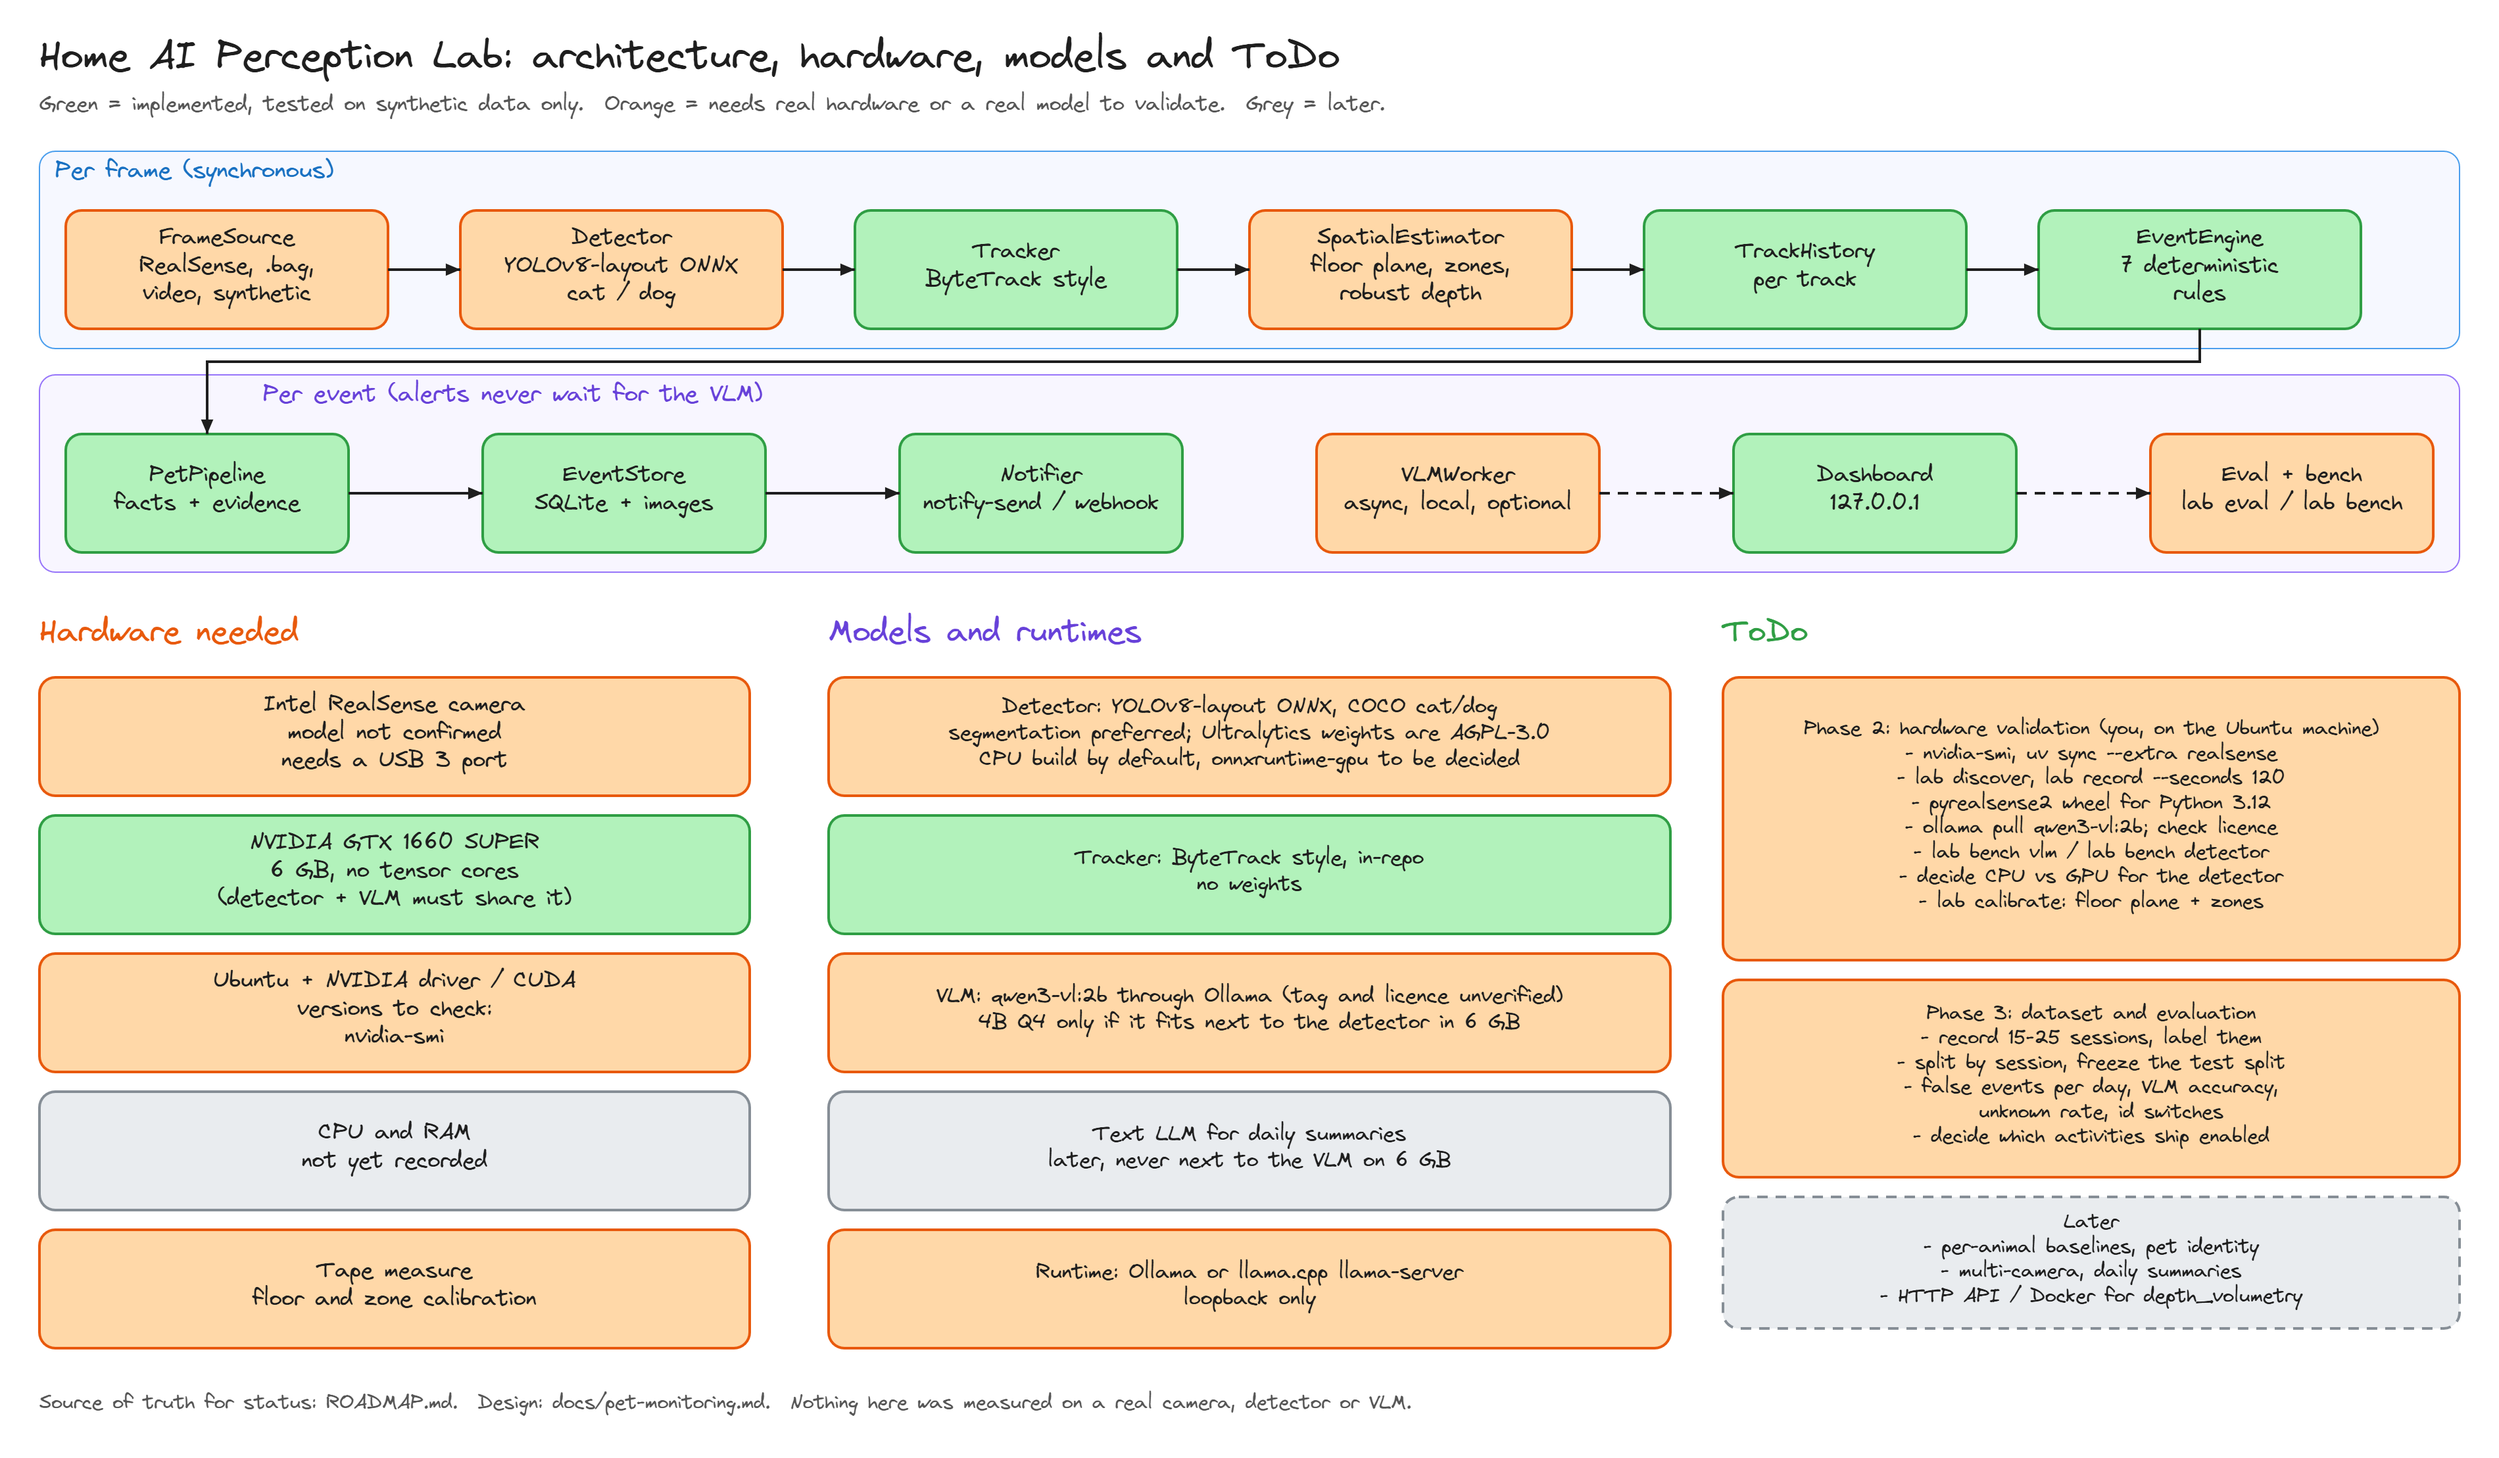
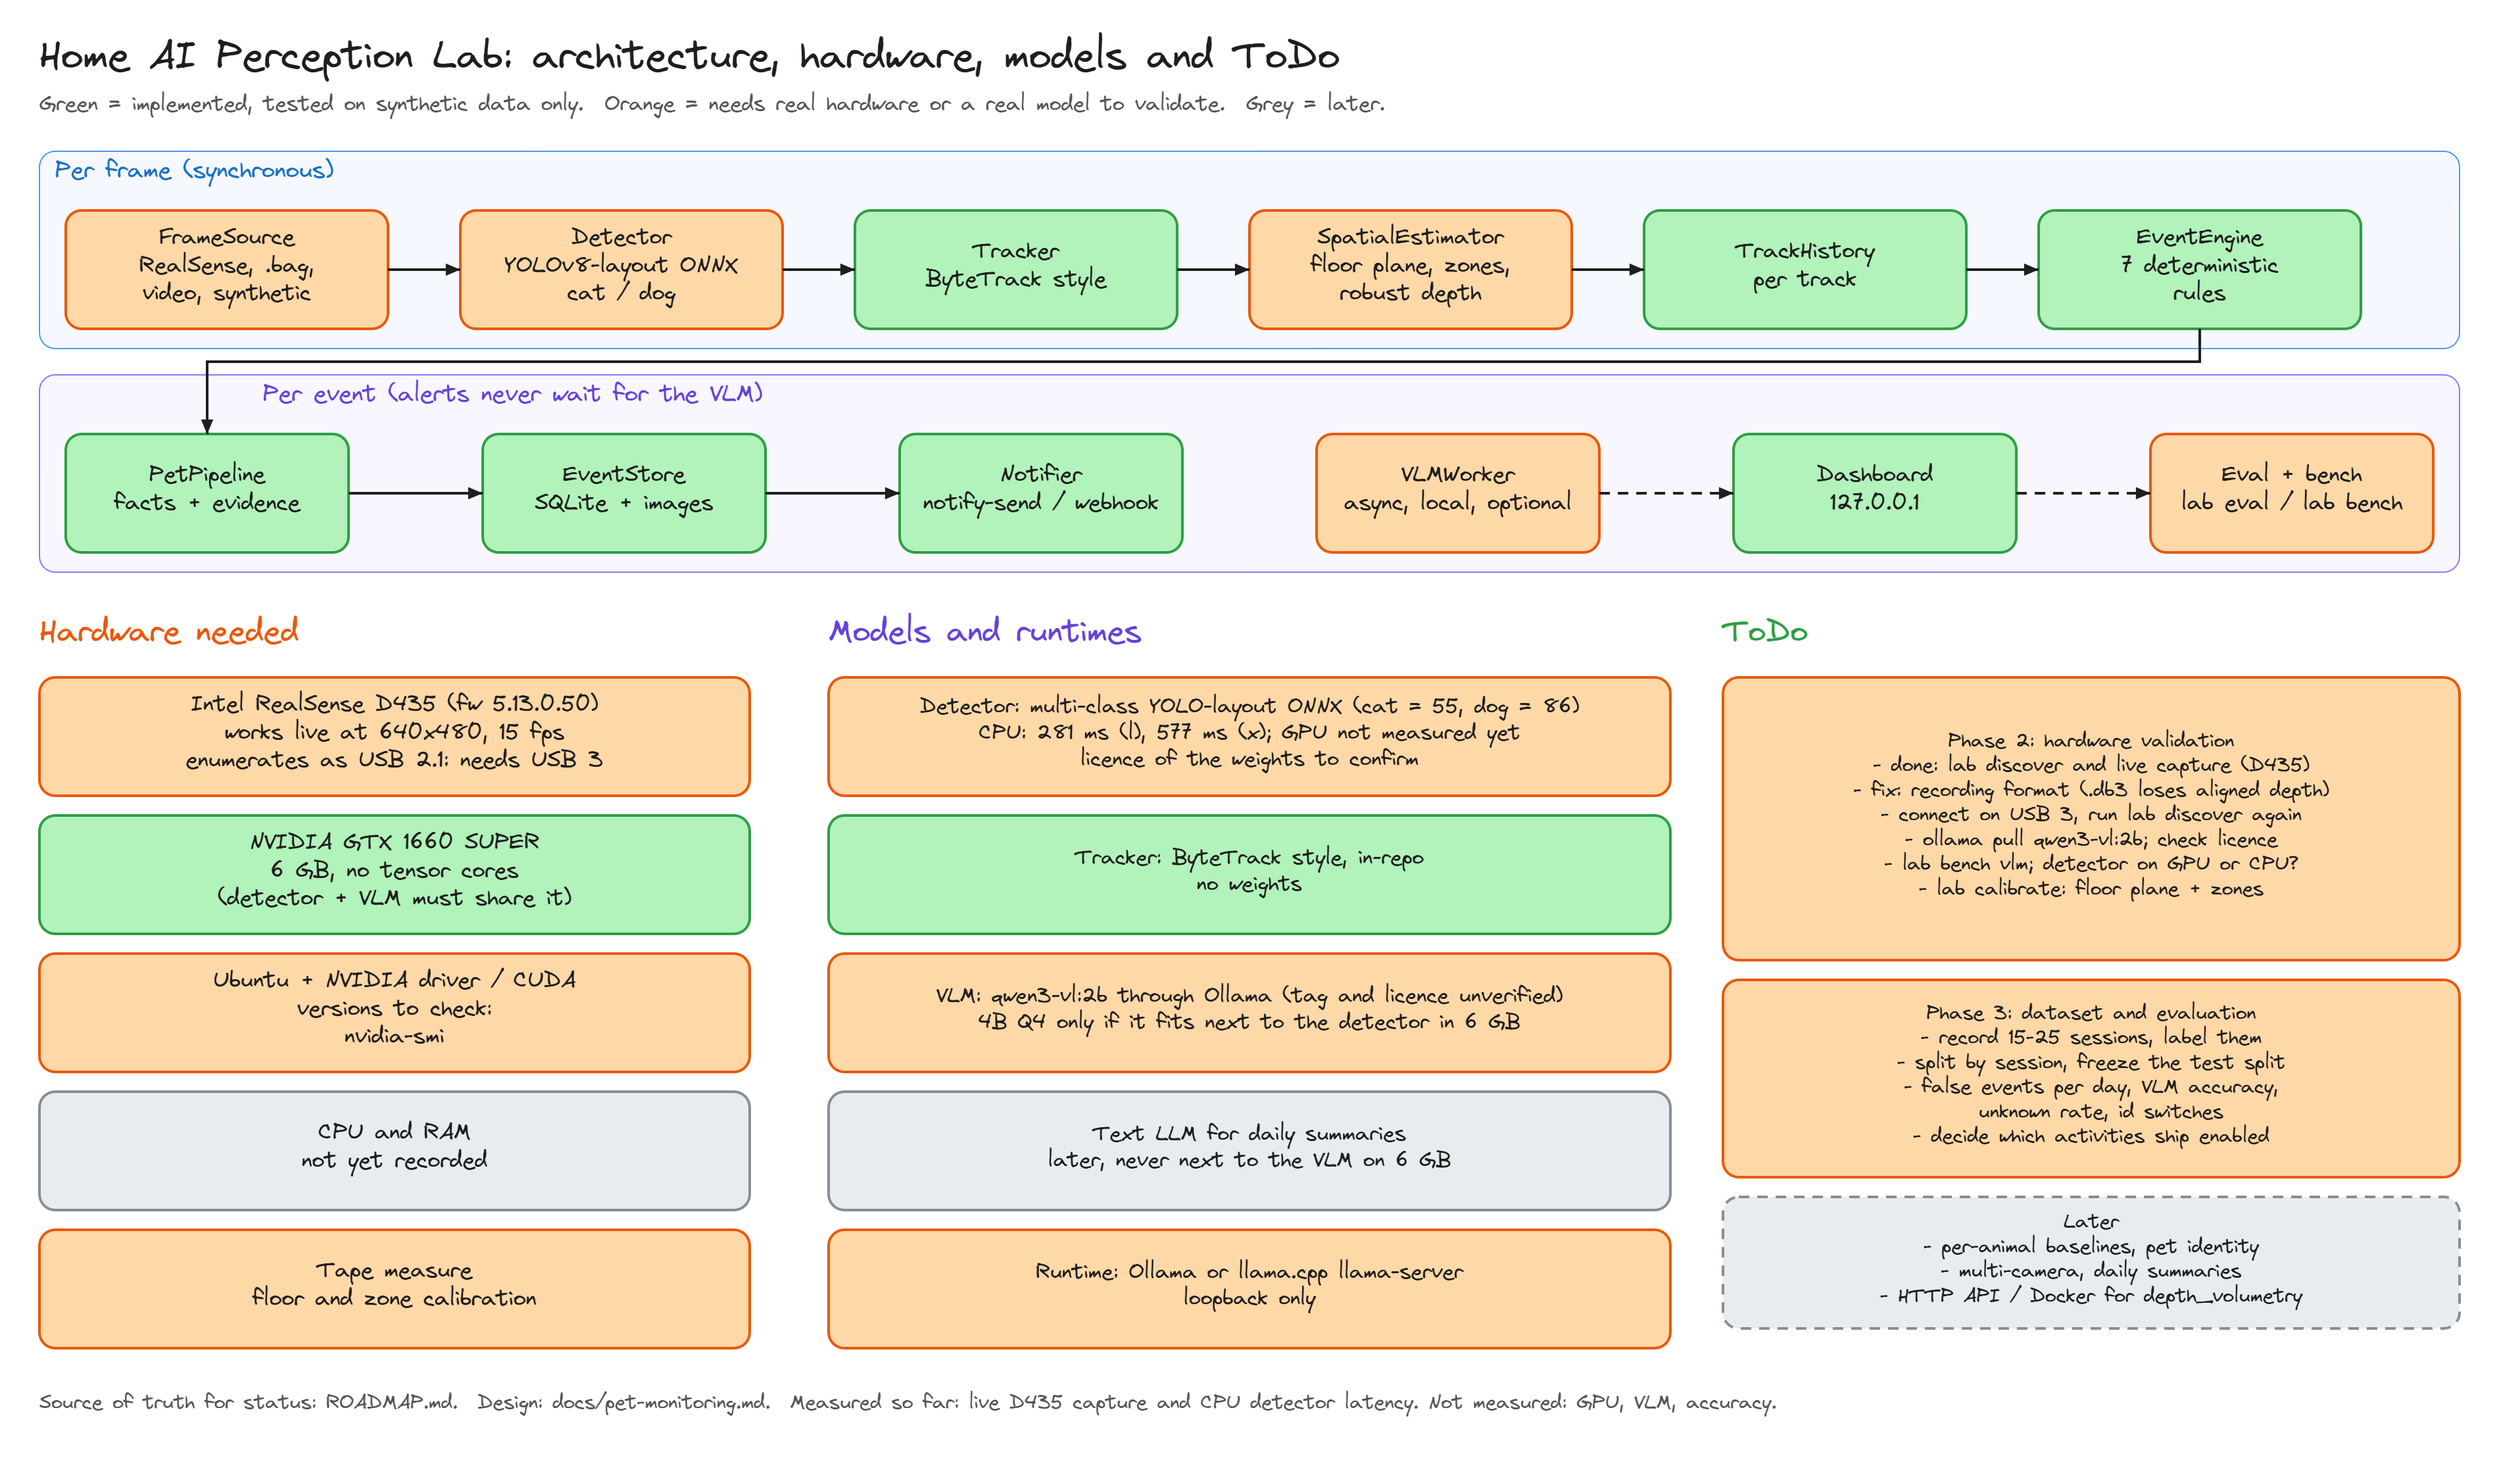
docs: record the first measurements on the development PC
Roadmap and lab notes with what was run on a D435, a GTX 1660 SUPER and a
multi-class YOLO-layout detector, and what was not:
- live depth works at 640x480, 15 fps; the camera enumerates as USB 2.1;
- pyrealsense2 2.59.1 loses the aligned depth when replaying a .db3, while
  2.55.1 with a .bag works;
- detector latency by model size on CPU and on GPU through DirectML (CUDA
  did not initialise here);
- qwen3-vl:2b is the reasoning variant and is unreliable; the -instruct tag
  answers in valid JSON, but a first request with four images takes about
  40 s because Ollama caches repeated prompts;
- the detector's class ids are 55 (cat) and 86 (dog), not the COCO defaults.

Update the overview diagram with the same facts. None of this is an
accuracy measurement.

diff --git a/ROADMAP.md b/ROADMAP.md
@@ -26,9 +26,58 @@ real camera, detector or VLM unless it says so.
 
 Run on the target machine and keep the outputs ([`docs/pet-monitoring.md`](docs/pet-monitoring.md#first-steps-on-the-target-machine)):
 
-- [ ] `nvidia-smi`, `lab discover`, `lab record`; confirm the `pyrealsense2` wheel for the Python version.
-- [ ] Confirm the VLM tag (`qwen3-vl:2b`) and its licence on the official model card.
-- [ ] `lab bench detector` and `lab bench vlm`; decide CPU vs GPU (`onnxruntime-gpu`) on a 6 GB card.
+- [x] `lab discover`, live capture and `lab record` on the Windows development PC
+      (2026-11-09): RealSense D435, firmware 5.13.0.50, serial recorded in the sidecar, GTX 1660
+      SUPER (6 GB), `pyrealsense2` 2.59.1 on Python 3.12. Live depth aligned to colour works at
+      640x480, 15 fps (about 70 % valid pixels at about 1.1 m median in one indoor scene).
+      The camera enumerates as USB 2.1, which limits profiles (for example 1280x720 depth is
+      6 fps); a USB 3 port and cable are still to be confirmed.
+- [ ] **Recording format.** With `pyrealsense2` 2.59.1, recordings must be `.db3` (the lab's
+      default `.bag` name is rejected), and replaying a `.db3` returns corrupt depth-to-colour
+      extrinsics, so the aligned depth is all zeros although the file holds valid depth. With
+      `pyrealsense2` 2.55.1 on Python 3.11 a `.bag` records and replays correctly
+      (about 71 % valid aligned depth). Decide: pin `pyrealsense2` below 2.56 and Python 3.11
+      for the `realsense` extra, or make the replay not depend on the file's extrinsics.
+- [ ] **VLM (`qwen3-vl:2b` through Ollama, 2026-11-09, same PC).** The tag exists and Ollama
+      lists Apache licence (confirm on the official model card). This tag is the *thinking*
+      variant: it spends tokens on reasoning before the JSON answer, and `think: false` did
+      not turn that off. Ollama's default context is 4096 tokens, which three images already
+      fill (3348 prompt tokens), so the answer is cut (`done_reason=length`, empty content);
+      six images need 6485 tokens. With `num_ctx = 8192`, one image answered in 3-15 s with
+      valid JSON, three images 35 s (valid once, 4842 tokens and invalid on the repeat) and six
+      images were cut at 58 s. Whole-GPU memory with the model loaded at 8192 context: about
+      4.4 GB, of which 0.7 GB belongs to other programs.
+- [ ] **VLM `qwen3-vl:2b-instruct` (1.9 GB, no thinking; tag listed on ollama.com 2026-11-09).**
+      `num_ctx = 8192`, model already loaded, same PC. Answers were valid against the schema
+      in every request (15 of 15 on frames without a cat; 3 of 3 on a live cat), with 195-252
+      output tokens and no reasoning tokens. **Latency depends on Ollama's prompt cache.** An
+      identical request repeated three times took 42.5 s, then 2.9 s and 2.9 s (prompt
+      evaluation 39.4 s, then 0.0 s); an earlier run that repeated identical requests showed
+      1.8-3.6 s medians and was inflated by that cache. Treat a new event as about 40-55 s for
+      4-5 images (about 1100 prompt tokens per image, about 110 prompt tokens/s here, whatever
+      the crop size). Whole-GPU memory with the model loaded: about 4.3 GB (0.7 GB of it
+      other programs).
+- [ ] **Live cat check (detector `l` + VLM instruct, 2026-11-09, live D435).** A black cat on a
+      cat tree: detected in 48 of 48 analysed frames in one run (score 0.54-0.90, valid depth
+      in all, median 1.03 m), 31 of 48 in a second run and 3 of 48 in a third (the animal may
+      have moved; not investigated). The VLM answered `resting_or_sleeping` in three runs with
+      certainty high, high and medium, while listing its own uncertainties; do not use the
+      model's certainty as confidence. One image read by eye matched the description (a cat
+      sitting on the lower platform). This is not an accuracy measurement.
+- [x] `vlm.num_ctx` (default 8192) is now in `VLMConfig`, sent to Ollama and covered by tests.
+      Through `lab bench vlm` with the instruct tag and real frames, first (uncached) request:
+      1 image 16.0 s, 2 images 21.6 s, 4 images 42.1 s; repeats 2.0-3.2 s from the cache; 6 of
+      6 answers valid; whole-GPU peak 4.25 GB. Still open: change the default model tag from
+      `qwen3-vl:2b` to `qwen3-vl:2b-instruct`, compare 2 against 4 images and the 4B model on
+      labelled cat events, and decide how many images per event given about 10 s per image.
+- [ ] **Detector (multi-class YOLO-layout exports in five sizes, 640 input, synthetic frames, same PC).** CPU
+      (`onnxruntime` 1.31): n 37 ms, s 82 ms, m 235 ms, l 281 ms, x 577 ms (p50). GPU through
+      DirectML with the VLM already loaded: n 9 ms, s 14 ms, m 27 ms, l 32-34 ms, x 59-63 ms
+      (p50), adding 100, 168, 289, 324 and 664 MiB. CUDA through `onnxruntime-gpu` did not
+      initialise here (1.31 needs CUDA 13; 1.22 with CUDA 12 libraries failed in cuDNN on the
+      first convolution and fell back to CPU), so the CUDA path on Ubuntu is untested.
+      One live check detected a black cat at score 0.39 on a cat tree; this is not an accuracy
+      measurement. Class ids are 55 (cat) and 86 (dog), not the COCO defaults.
 - [ ] Calibrate the floor plane and zones with a tape measure.
 
 ## Phase 3: dataset and evaluation

diff --git a/docs/pet-monitoring.md b/docs/pet-monitoring.md
@@ -148,6 +148,14 @@ schema, the answers, errors, peak GPU memory (whole GPU, via `nvidia-smi`) and O
 `size_vram`. Repeat with the 4B quantised model (`--model <tag>`). Decide from these
 numbers, not from model file sizes:
 
+- if answers come back empty or cut, check `vlm.num_ctx` (default 8192) before blaming the
+  model: the prompt costs about 1100 tokens per image and Ollama's own default of 4096 tokens
+  is exhausted by three images. `num_ctx` applies to Ollama only; set the context of
+  `llama-server` when you start it;
+- prefer a non-reasoning tag such as `qwen3-vl:2b-instruct` over the plain `2b` tag, which is
+  the reasoning variant and spends tokens thinking before the JSON;
+- Ollama caches the prompt prefix, so repeating one request makes it look fast; the first
+  request with new images is the one that matters for latency;
 - if multi-image requests fail or are ignored, set `vlm.montage = true`;
 - keep the model whose peak memory leaves room for the detector (6 GB card) and whose
   latency is acceptable; alerts never wait for the VLM;
@@ -161,6 +169,18 @@ segmentation; segmentation masks improve depth sampling) and measure it:
 ```bash
 uv run lab bench detector --source bag --path data/recordings/first.bag --frames 200
 ```
+
+`detector.class_ids` must match the model's own class list: the defaults (15 and 16) are the
+COCO ids of cat and dog, and a model with another vocabulary silently selects other classes
+(a model with a much larger vocabulary was checked here: cat = 55 and dog = 86, and ids 15
+and 16 were two unrelated classes). Read the names from the exported file before configuring it:
+
+```bash
+uv run python -c "import ast, onnxruntime as ort; s = ort.InferenceSession('model.onnx'); print(ast.literal_eval(s.get_modelmeta().custom_metadata_map['names']))"
+```
+
+Models whose export has a different output layout (for example end-to-end, NMS-free outputs)
+are not decoded by the lab; export with the YOLOv8 layout (`end2end=False` in Ultralytics).
 
 Ultralytics weights are AGPL-3.0; check the licence of whatever weights you use. Set
 `detector.kind = "yolov8_onnx"` and `detector.model_path` in `lab.toml`.
